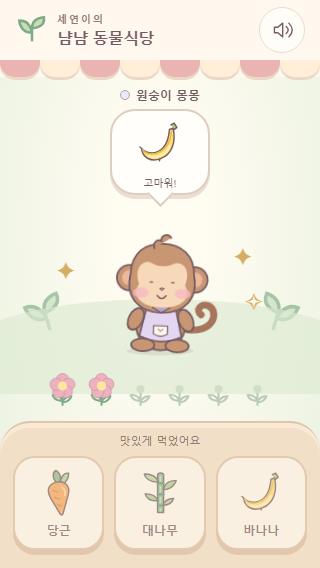
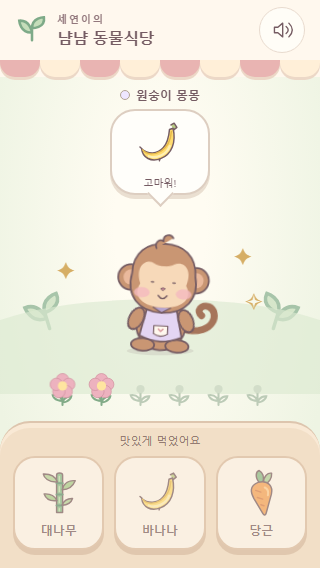
fix: keep desktop landscape windows playable

diff --git a/src/styles/app.css b/src/styles/app.css
@@ -125,5 +125,5 @@ h1 { margin: 11px 0 12px; font-size: clamp(30px, 8vw, 43px); line-height: 1.28; 
 @keyframes petal-float { to { translate: 5px 13px; } }
 @keyframes food-flight { 0% { transform: translate(calc(var(--from-x) - 38px), calc(var(--from-y) - 38px)) scale(1); opacity: 1; } 34% { transform: translate(calc(var(--to-x) - 38px), calc(var(--to-y) - 38px)) scale(.65); opacity: 1; } 52%, 100% { transform: translate(calc(var(--to-x) - 38px), calc(var(--to-y) - 38px)) scale(.1); opacity: 0; } }
 @media (max-height: 680px) { .stage { padding-top: 20px; --hop-height: -12px; } .topbar { padding: 7px 15px; }.awning { height: 17px; }.order-area { padding-top: 10px; gap: 6px; }.order-bubble { height: 86px; width: 100px; padding: 5px 14px; }.order-bubble .food-art { height: 54px; }.order-bubble::after { left: 39px; }.play-screen { grid-template-rows: auto minmax(120px, 1fr) 57px auto; }.progress-flowers > span { height: 50px; width: 33px; }.food-tray { padding: 10px 13px 18px; }.food-card { height: 94px; }.tray-caption { margin-bottom: 8px; }.welcome-copy { padding-top: 16px; }h1 { font-size: 30px; margin: 8px 0; }.welcome-action .primary-button, .finish-action .primary-button { width: 96px; height: 96px; padding: 24px; }.welcome-bottom { margin: 4px 0 9px; }.welcome-action p, .finish-action p { margin-top: 12px; }.finished { gap: 9px; padding: 12px 10px; }.finished .progress-flowers { margin-bottom: 4px; }.finished .progress-flowers > span { width: 34px; height: 57px; } }
-@media (orientation: landscape) { .rotate-overlay { display: flex; position: fixed; inset: 0; z-index: 50; background: #fff8eef5; align-items: center; justify-content: center; flex-direction: column; gap: 15px; }.rotate-overlay span { font-size: 13px; }.rotate-phone { width: 46px; height: 70px; border: 4px solid #a1b8a3; border-radius: 10px; transform: rotate(-12deg); } }
+@media (orientation: landscape) and (max-width: 1000px) and (max-height: 600px) { .rotate-overlay { display: flex; position: fixed; inset: 0; z-index: 50; background: #fff8eef5; align-items: center; justify-content: center; flex-direction: column; gap: 15px; }.rotate-overlay span { font-size: 13px; }.rotate-phone { width: 46px; height: 70px; border: 4px solid #a1b8a3; border-radius: 10px; transform: rotate(-12deg); } }
 @media (prefers-reduced-motion: reduce) { *, *::before, *::after { animation: none !important; transition: none !important; }.flying-food { display: none; }.panda-hearts { opacity: .8; }.food-card.hint { background: #eef6df; outline: 3px solid #aac19e; } }

diff --git a/tests/e2e/game.spec.ts b/tests/e2e/game.spec.ts
@@ -240,12 +240,24 @@ test('reduced motion, keyboard buttons and landscape prompt', async ({ page }) =
   await expect(page.getByText('세로로 세워 주세요')).toBeVisible();
   await page.screenshot({ path: `${screenshots}/landscape.png` });
 });
-test('desktop mouse input works at 900x1280', async ({ page }) => {
-  await page.setViewportSize({ width: 900, height: 1280 }); await page.goto('/');
-  await page.getByRole('button', { name: '놀이 시작' }).click();
-  const from = await point(page, 'carrot'); const zone = (await page.getByTestId('drop-zone').boundingBox())!;
-  await page.mouse.move(from.x, from.y); await page.mouse.down();
-  await page.mouse.move(zone.x + zone.width / 2, zone.y + zone.height / 2, { steps: 10 }); await page.mouse.up();
-  await expect(page.locator('.progress-flowers')).toHaveAttribute('data-count', '1');
-  await page.screenshot({ path: `${screenshots}/desktop-drag.png` });
+test.describe('desktop browser', () => {
+  test.use({ isMobile: false, hasTouch: false });
+  test('landscape windows show the game and accept mouse input', async ({ page }) => {
+    for (const [width, height] of [[1280, 900], [1615, 1248]]) {
+      await page.setViewportSize({ width, height }); await page.goto('/');
+      await expect(page.locator('.rotate-overlay')).toBeHidden();
+      await page.screenshot({ path: `${screenshots}/desktop-${width}-welcome.png` });
+      await page.getByRole('button', { name: '놀이 시작' }).click();
+      await settleEntrance(page); await assertLayout(page, width, height);
+      const from = await point(page, 'carrot'); const zone = (await page.getByTestId('drop-zone').boundingBox())!;
+      await page.mouse.move(from.x, from.y); await page.mouse.down();
+      await page.mouse.move(zone.x + zone.width / 2, zone.y + zone.height / 2, { steps: 10 }); await page.mouse.up();
+      await expect(page.locator('.progress-flowers')).toHaveAttribute('data-count', '1');
+      await expect(game(page)).toHaveAttribute('data-round', '1');
+      await expect(game(page)).toHaveAttribute('data-phase', 'ready');
+      await card(page, 'banana').click();
+      await expect(page.locator('.progress-flowers')).toHaveAttribute('data-count', '2');
+      await page.screenshot({ path: `${screenshots}/desktop-${width}-play.png` });
+    }
+  });
 });

diff --git a/docs/QA_REPORT.md b/docs/QA_REPORT.md
@@ -11,7 +11,7 @@
 | Vitest | PASS — 10개 | 순서/매핑, 배치 불변식, 오답/힌트 초기화, 중복 진행 잠금, 6회 종료·재시작, 드래그 취소·드롭 경계, 저장/오디오 접근 실패 |
 | Playwright Chromium | PASS — 16개 | 아래 모바일·입력·오프라인·업데이트 시나리오; 실제 Chromium 156, 터치 에뮬레이션 |
 | 콘솔·실행 오류 | PASS | 게임 E2E의 console error/pageerror 수집 결과 빈 배열, 업데이트 E2E의 pageerror 빈 배열 |
-| 스크린샷 | PASS | 35개 PNG 생성; 등장 완료 후 기본 화면 캡처, 반응 화면은 실제 애니메이션 프레임 캡처 |
+| 스크린샷 | PASS | 최종 실행에서 38개 PNG 생성; 등장 완료 후 기본 화면 캡처, 반응 화면은 실제 애니메이션 프레임 캡처. 이전 `desktop-drag.png`는 과거 증거로 보존하며 현재 수에 포함하지 않음 |
 | 독립 리뷰 | PASS | 2개 결함 수정 후 재리뷰; 지연된 SW 활성화 독립 재현에서도 놀이 유지·종료 후 갱신 확인 |
 | 기존 게임 보호 | PASS | `C:\dev\sons-game`의 tracked diff 없음; 시작 때 존재하던 untracked 항목 유지 |
 
@@ -22,7 +22,7 @@
 | 시나리오 | 결과 |
 |---|---|
 | 360×800 / 390×844 / 412×915 / 320×568 / 800×1280 | 모두 시작 → 6회 탭 → 합동 축하 → 재시작 통과; 세 카드의 최소 72×88px, 본체 드롭 영역 120×120px 이상, 가로·세로 스크롤 및 카드 겹침 없음 |
-| 데스크톱 900×1280 | 마우스 드래그로 정답 성공 |
+| 데스크톱 1280×900 / 1615×1248 | 비모바일 Chromium 컨텍스트에서 안내 오버레이 숨김, 시작 버튼·마우스 드래그·다음 라운드 클릭 통과 |
 | 가로 844×390 | 세로 사용 안내 표시; 페이지 손상 없음 |
 | 두 번 오답 및 8초 무입력 | 라운드/꽃 그대로 유지, 정답 카드 힌트, 다음 라운드에서 초기화 |
 | 실제 touchStart/Move/End/Cancel | 정답 드롭, 영역 밖 복귀, 취소, 오답 복귀 확인; 고스트가 손가락 위 42px에 위치 |
@@ -41,6 +41,7 @@
 - [토토 반응](../qa/screenshots/390-rabbit-delight.png), [몽몽 반응](../qa/screenshots/390-monkey-delight.png), [팡팡 반응](../qa/screenshots/390-panda-delight.png)
 - [작은 화면](../qa/screenshots/320-rabbit.png), [작은 화면 점프](../qa/screenshots/320-rabbit-delight.png), [412px 화면](../qa/screenshots/412-rabbit.png)
 - [힌트](../qa/screenshots/390-hint.png), [합동 축하](../qa/screenshots/390-finished.png), [태블릿](../qa/screenshots/800-finished.png), [오프라인 축하](../qa/screenshots/390-offline-finished.png)
+- [PC 1280px 시작](../qa/screenshots/desktop-1280-welcome.png), [PC 1615px 시작](../qa/screenshots/desktop-1615-welcome.png), [PC 놀이](../qa/screenshots/desktop-1615-play.png)
 
 눈·코·입 정렬, 종별 실루엣, 음식 이동 목표, 작은 화면 하단 여유, 축하 화면 세 친구 비겹침을 실제 이미지로 확인했다. 작은 화면 점프가 말풍선과 겹치지 않도록 공간과 점프 높이를 조정했다. 이모지를 캐릭터/음식 그래픽으로 사용하지 않는다.
 
@@ -50,6 +51,7 @@
 2. **오답 드롭 피드백:** 몸에 놓은 오답 음식 고스트가 즉시 사라졌다. 정답 여부를 반환하여 기존 복귀 애니메이션을 재사용하고, 탭 오답에도 카드의 작은 반동을 추가했다.
 3. **작은 화면 연출 여유:** 토토의 점프가 말풍선 꼬리 근처에 닿을 여지가 있었다. 낮은 화면에서는 위 여유를 확보하고 12px의 가벼운 점프로 유지했다.
 4. **테스트 캡처 타이밍:** 계속 맥동하는 힌트 버튼의 안정 상태를 기다리던 Playwright가 timeout했다. 실제 화면 좌표로 touch tap을 실행해 검증한다. touchMove의 렌더링 완료와 등장 애니메이션 완료를 기다려 고스트/스크린샷을 검사한다.
+5. **PC 가로 화면 차단:** `orientation: landscape`만으로 모든 PC 창에도 회전 안내를 띄워 게임을 가렸다. 안내를 가로 1000px 이하·세로 600px 이하의 작은 화면으로 제한했다. 기존 세로형 데스크톱 검사는 이 오류를 발견하지 못했다. 실제 가로형 PC 크기 2개와 비모바일 컨텍스트로 회귀 검사를 교체했고, 모바일 가로 안내도 유지한다.
 
 환경 설치 중 Windows ESM 경로/Sharp 패키지 진입점 및 Playwright 브라우저 버전 불일치를 확인해 해결했다. 실제 테스트용 Chromium을 설치했다. 최종 빌드의 앱 아이콘 192px/512px/maskable 및 로컬 리소스 캐싱을 확인했다.
 

diff --git a/docs/ai/GAME_SPEC.md b/docs/ai/GAME_SPEC.md
@@ -14,7 +14,7 @@ Correct food flies to the SVG mouth, two chews, species-specific delight, one fl
 Original 512×512 SVG characters in `src/assets/characters.tsx`: white rabbit with pink ears/mint apron, brown monkey with tail/lavender apron, black-and-white panda/yellow apron. Original 256×256 food SVGs in `src/assets/foods.tsx`. Eyes blink; curious head tilt; rabbit hops twice with ears, monkey claps twice with puffed cheeks, panda rocks with hearts. Quiet locally synthesized Web Audio tones unlock only after interaction. Only mute preference is stored; denied storage/audio leaves play functional. No TTS or music required.
 
 ## Mobile and PWA
-360×800, 390×844, 412×915, 320×568, 800×1280 and desktop QA. Food cards ≥72×88px; body target ≥120×120px; dynamic viewport height and safe areas. Landscape shows a portrait prompt. Reduced-motion disables decorative movement and uses a static hint. Local resources are precached by a generated Service Worker. Install/cache requires localhost or HTTPS. A waiting update activates only at welcome or finished, never during play. First visit still requires a network connection.
+360×800, 390×844, 412×915, 320×568, 800×1280 and desktop QA. Food cards ≥72×88px; body target ≥120×120px; dynamic viewport height and safe areas. Compact landscape viewports (width ≤1000px and height ≤600px) show a portrait prompt; larger desktop/tablet windows remain playable with a centered portrait layout. Desktop regression viewports are 1280×900 and 1615×1248 with non-mobile mouse input. Reduced-motion disables decorative movement and uses a static hint. Local resources are precached by a generated Service Worker. Install/cache requires localhost or HTTPS. A waiting update activates only at welcome or finished, never during play. First visit still requires a network connection.
 
 ## Scope / execution plan
 1. Data/reducer, gesture hook and safe audio; verify state and input invariants.

diff --git a/README.md b/README.md
@@ -32,7 +32,7 @@ npm run preview
 - 정답 연출을 탭하면 짧게 건너뜁니다. 최초 350ms 및 화면 전환 중에는 연속 터치를 무시합니다.
 - 꽃 6송이를 모으면 세 친구가 함께 축하합니다. 큰 원형 화살표로 다시 시작합니다.
 - 스피커 버튼으로 소리를 켜고 끕니다. 저장하는 정보는 음소거 여부뿐입니다.
-- 가로 화면은 세로 사용 안내를 표시합니다. 움직임 줄이기 설정을 지원합니다.
+- 작은 모바일 가로 화면은 세로 사용 안내를 표시합니다. 큰 PC·태블릿 창에서는 가운데 세로형 게임을 바로 플레이할 수 있습니다. 움직임 줄이기 설정을 지원합니다.
 
 의인화된 동물 친구의 놀이이며, 전문적인 동물 식성 학습 도구는 아닙니다. 계정, 광고, 결제, 분석, 외부 폰트·이미지·API 요청은 없습니다.
 
